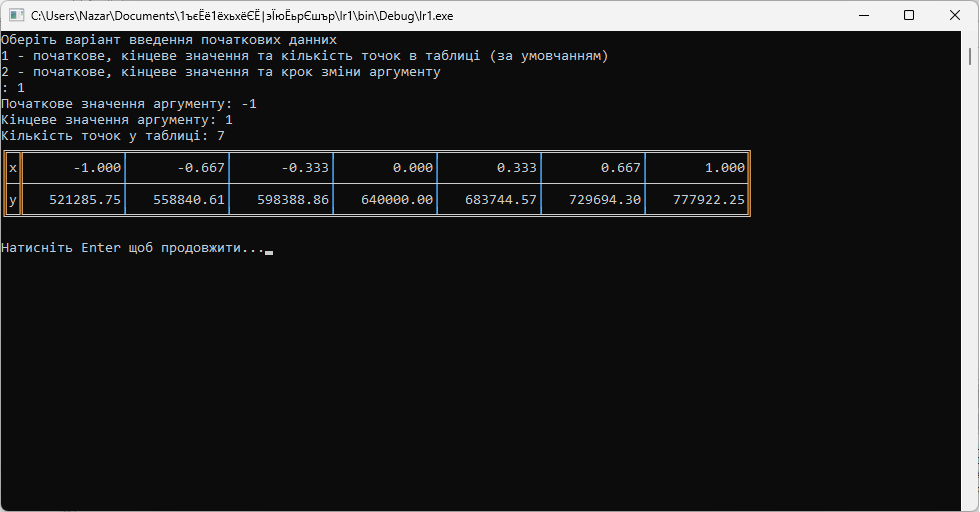
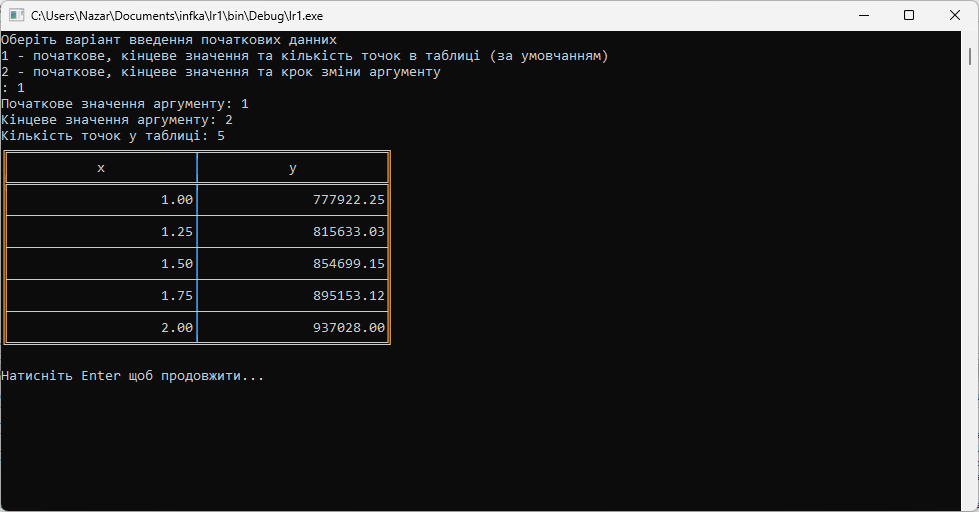
Виправлення створення таблиці, щоб відповідало варіанту 2

diff --git a/main.c b/main.c
@@ -14,11 +14,8 @@ void part1();
 void part2();
 float avg(const float *arr, unsigned int count);
 double f(double x);
-void printTable(double x_arr[], double y_arr[], unsigned int size, double delta);
+void printTable(double x_arr[], double y_arr[], unsigned int size);
 void pressEnterToContinue();
-unsigned int beforeDecimalSize(double num);
-unsigned int afterDecimalSize(double num);
-unsigned int afterDecimalSizeDelta(double num, double delta);
 
 int main(){
     SetConsoleOutputCP(CP_UTF8);
@@ -138,7 +135,7 @@ void part2(){
             x_arr[i] = x1 + delta*i;
             y_arr[i] = f(x_arr[i]);
         }
-        printTable(x_arr, y_arr, n, delta);
+        printTable(x_arr, y_arr, n);
     }
     else {
         double x1, x2;
@@ -169,7 +166,7 @@ void part2(){
             x_arr[i] = x1 + delta*i;
             y_arr[i] = f(x_arr[i]);
         }
-        printTable(x_arr, y_arr, n, delta);
+        printTable(x_arr, y_arr, n);
     }
     pressEnterToContinue();
 }
@@ -189,88 +186,19 @@ double f(double x){
 }
 
 //Виведення таблиці на екран
-void printTable(double x_arr[], double y_arr[], unsigned int size, double delta){
-    //Обчислення розміру комірки для чисел
-    unsigned int max_before_decimal_x = 0;
-    unsigned int max_before_decimal_y = 0;
-    unsigned int max_after_decimal_x = 0;
-    unsigned int max_after_decimal_y = 0;
+void printTable(double x_arr[], double y_arr[], unsigned int size){
 
+    if(size == 0) return;
+    printf("╔═══════════════════════╤═══════════════════════╗\n");
+    printf("║           x           │           y           ║\n");
+    printf("╠═══════════════════════╪═══════════════════════╣\n");
     for(unsigned int i = 0; i < size; i++){
-        unsigned int before_decimal = beforeDecimalSize(x_arr[i]);
-        unsigned int after_decimal = afterDecimalSizeDelta(x_arr[i], delta);
-
-        max_before_decimal_x = before_decimal > max_before_decimal_x ? before_decimal : max_before_decimal_x;
-        max_after_decimal_x = after_decimal > max_after_decimal_x ? after_decimal : max_after_decimal_x;
-
-        before_decimal = beforeDecimalSize(y_arr[i]);
-        after_decimal = afterDecimalSize(y_arr[i]);
-
-        max_before_decimal_y = before_decimal > max_before_decimal_y ? before_decimal : max_before_decimal_y;
-        max_after_decimal_y = after_decimal > max_after_decimal_y ? after_decimal : max_after_decimal_y;
+        printf("║%23.2lf│%23.2lf║\n", x_arr[i], y_arr[i]);
+        if(i == size - 1)
+            printf("╚═══════════════════════╧═══════════════════════╝\n");
+        else
+            printf("╟───────────────────────┼───────────────────────╢\n");
     }
-    unsigned int max_size_print = max_before_decimal_x + max_after_decimal_x > max_before_decimal_y + max_before_decimal_y
-    ? max_before_decimal_x + max_after_decimal_x
-    : max_before_decimal_y + max_before_decimal_y;
-
-    //Виведення таблиці
-    for(unsigned int i = 0; i < size; i++){
-        if(i == 0)printf("╔═╦");
-        for(int j = 0; j < max_size_print; j++)printf("═");
-        if(i == size - 1)printf("╗\n");
-        else printf("╤");
-    }
-
-    for(unsigned int i = 0; i < size; i++){
-        if(i == 0)printf("║x║");
-        printf("%*.*lf",
-               max_size_print,
-               max_after_decimal_x,
-               x_arr[i]);
-        if(i == size - 1)printf("║\n");
-        else printf("│");
-    }
-
-    for(unsigned int i = 0; i < size; i++){
-        if(i == 0)printf("╟─╫");
-        for(int j = 0; j < max_size_print; j++)printf("─");
-        if(i == size - 1)printf("╢\n");
-        else printf("┼");
-    }
-
-    for(unsigned int i = 0; i < size; i++){
-        if(i == 0)printf("║y║");
-        printf("%*.*lf",
-               max_size_print,
-               max_after_decimal_y,
-               y_arr[i]);
-        if(i == size - 1)printf("║\n");
-        else printf("│");
-    }
-
-    for(unsigned int i = 0; i < size; i++){
-        if(i == 0)printf("╚═╩");
-        for(int j = 0; j < max_size_print; j++)printf("═");
-        if(i == size - 1)printf("╝\n");
-        else printf("╧");
-    }
-}
-//Обчислення ширини комірки, яку займає цифра
-unsigned int beforeDecimalSize(double num){
-    if(num == 0)return 2;
-    return (num < 0 ? 2 : 1) + ((int)floor(log10(fabs(num))) < 1 ? 1 : abs((int)floor(log10(fabs(num)))));
-}
-
-unsigned int afterDecimalSize(double num){
-    if(num == 0)return 2;
-    return (int)floor(log10(fabs(num))) > 0 ? 2 : (abs((int)floor(log10(fabs(num)))) + 2);
-}
-
-unsigned int afterDecimalSizeDelta(double num, double delta){
-    unsigned int size_num = afterDecimalSize(num);
-    unsigned int size_delta = afterDecimalSize(delta);
-    if(size_delta > size_num)return size_delta;
-    return size_num;
 }
 
 //Очікує Enter від користувача щоб продовжити
